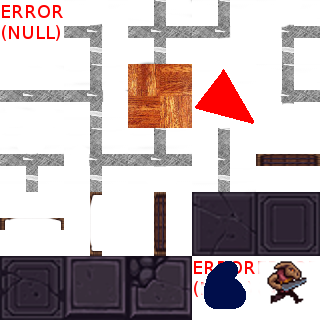
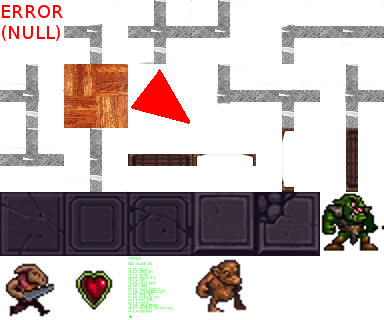
implemented cooperation mechanic

diff --git a/src/scene_game.cpp b/src/scene_game.cpp
@@ -19,6 +19,8 @@ SceneGame::~SceneGame()
 void SceneGame::OnLoad()
 {
 	// montage *.png ../floor0.png -geometry +0x0 -tile 3x3 ../walls.png
+	int tile_size = EngineInst->screen_width()/map->GetWidth();
+	EngineInst->setTileSize(tile_size);
 
 	bool success = EngineInst->loadResources(texturesScene_game, texturesScene_gameSize);
 	RTexture *player1Texture = new RTexture(texturesScene_game[2]); 
@@ -37,7 +39,7 @@ void SceneGame::OnLoad()
 
 	for(int i = 0; i<5; ++i) {
 		Character* enemy = new Character(map,player2Texture);
-		enemy->setPosTiles(map,map->GetWidth()/2 + i, map->GetHeight()-4);
+		enemy->setPosTiles(map,map->GetWidth()-2, map->GetHeight()-2-i);
 		_enemys.push_back(enemy);
 	}
 
@@ -45,8 +47,6 @@ void SceneGame::OnLoad()
 	_tiles = new RTexture(texturesScene_game[3]);
 	_tiles->setTileSizeSrc(64);
 
-	int tile_size = EngineInst->screen_width()/map->GetWidth();
-	
 	_tiles->setTileSizeDst(tile_size);
 	
 	
@@ -234,5 +234,5 @@ void SceneGame::OnRender(SDL_Renderer* renderer)
 		
 	}
 	_tiles->renderTile(renderer, _player1->getPosX()+margin_left, _player1->getPosY()+margin_top, 24);
-	_tiles->renderTile(renderer, _player2->getPosX()+margin_left, _player2->getPosY()+margin_top, 24);
+	_tiles->renderTile(renderer, _player2->getPosX()+margin_left, _player2->getPosY()+margin_top, 27);
 }

diff --git a/src/MapLogic/field.cpp b/src/MapLogic/field.cpp
@@ -27,6 +27,8 @@ void Field::EnsureFieldIdsInitialized()
 	assigned_field[DOOR_VERTICAL_OPEN] = 16;
 	assigned_field[DOOR_HORIZONTAL_CLOSED] = 14;
 	assigned_field[DOOR_HORIZONTAL_OPEN] = 15;
+	assigned_field[MEDKIT] = 25;
+	assigned_field[DOSKEY] = 26;
 	initialized = true;
 }
 int Field::GetTileId()
@@ -34,8 +36,29 @@ int Field::GetTileId()
 	EnsureFieldIdsInitialized();
 	return assigned_field[GetType()];
 }
+bool Field::IsObstacle() {
+	if (someone_is_here) {
+		return true;
+	}
+	if (GetType()==DOOR_VERTICAL_CLOSED ||
+	    GetType()==DOOR_HORIZONTAL_CLOSED)
+	 	return true;
+	return (type>=WALL && type <=T_BOTTOM);
+}
+int doskey_active=0;
+int Field::GetType() {
+	if (type==DOOR_VERTICAL_CLOSED && doskey_active)
+		return DOOR_VERTICAL_OPEN;
+	if (type==DOOR_HORIZONTAL_CLOSED && doskey_active)
+		return DOOR_HORIZONTAL_OPEN;
+
+	return type;
+}
+
 void Field::SteppedOver()
 {
+	if (type==DOSKEY)
+		doskey_active++;
 	if (type==DOOR_VERTICAL_CLOSED)
 		type=DOOR_VERTICAL_OPEN;
 	if (type==DOOR_HORIZONTAL_CLOSED)
@@ -45,5 +68,7 @@ void Field::SteppedOver()
 
 void Field::LeftField()
 {
+	if (type==DOSKEY)
+		doskey_active--;
 	someone_is_here=false;
 }

diff --git a/src/Engine/Engine.h b/src/Engine/Engine.h
@@ -17,6 +17,15 @@ public:
 	static void Destroy();
 	int screen_width();
 	int screen_height();
+	void setTileSize(int ts)
+	{
+		_tile_size=ts;
+	}
+	int getTileSize()
+	{
+		return _tile_size;
+	}
+	
 	
 	bool					loadTexture(ResourceItem &resItem); 
 	void					unLoadTexture(ResourceItem &resItem);
@@ -39,7 +48,7 @@ private:
 	Engine& operator=(const Engine&);
 	Engine(const Engine&);
 	Engine(){}
-
+	int _tile_size;
 	/* Engine members */
 	SDL_Window*			_window;		//The window we'll be rendering to 
 	SDL_Surface*			_screenSurface;		//The surface contained by the window 

diff --git a/src/Engine/Character.cpp b/src/Engine/Character.cpp
@@ -1,6 +1,6 @@
 #include "Character.h"
 #include "../GlobalData.h"
-
+#include "Engine/Engine.h"
 using namespace std;
 
 Character::Character(IMap * map, RTexture *texture)
@@ -28,7 +28,7 @@ void Character::setPosTiles(IMap * map, int x, int y)
 	_pos_before_y = y;
 	map->GetFieldAt(_pos_after_x, _pos_before_y)
 		->SteppedOver();
-	setPos(x * TILE_SIZE, y * TILE_SIZE);
+	setPos(x * EngineInst->getTileSize(), y * EngineInst->getTileSize());
 }
 
 int Character::getHealth()

diff --git a/src/MapLogic/map.cpp b/src/MapLogic/map.cpp
@@ -72,6 +72,12 @@ LoadedMap::LoadedMap(const char * path) {
 			case 'w':
 				new_field= new Field(IField::WALL);
 				break;
+			case 'k':
+				new_field= new Field(IField::DOSKEY);
+				break;
+			case 'm':
+				new_field= new Field(IField::MEDKIT);
+				break;
 			default:
 				new_field= new Field(IField::EMPTY);
 			}

diff --git a/src/MapLogic/field_impl.h b/src/MapLogic/field_impl.h
@@ -11,15 +11,8 @@ public:
 		someone_is_here=false;
 		type=f;
 	}
-	int GetType() {
-		return type;
-	}
-	bool IsObstacle() {
-		if (someone_is_here) {
-			return true;
-		}
-		return (type>=WALL && type <=T_BOTTOM);
-	}
+	int GetType();
+	bool IsObstacle();
 	int GetTileId();
 	void SetType(int f)
 	{

diff --git a/src/MapLogic/field.h b/src/MapLogic/field.h
@@ -30,6 +30,7 @@ public:
 		DOOR_HORIZONTAL_OPEN,
 		DOOR_VERTICAL_OPEN,
 		MEDKIT,
+		DOSKEY, /* dos computer that opens doors */
 
 		NUM_FIELD_TYPES
   

diff --git a/src/GlobalData.h b/src/GlobalData.h
@@ -3,7 +3,6 @@
 #include "Engine/Scene.h"
 #include "Engine/StructsGlobal.h"
 
-#define TILE_SIZE 32
 
 extern const char GlobalFontPath[];
 
